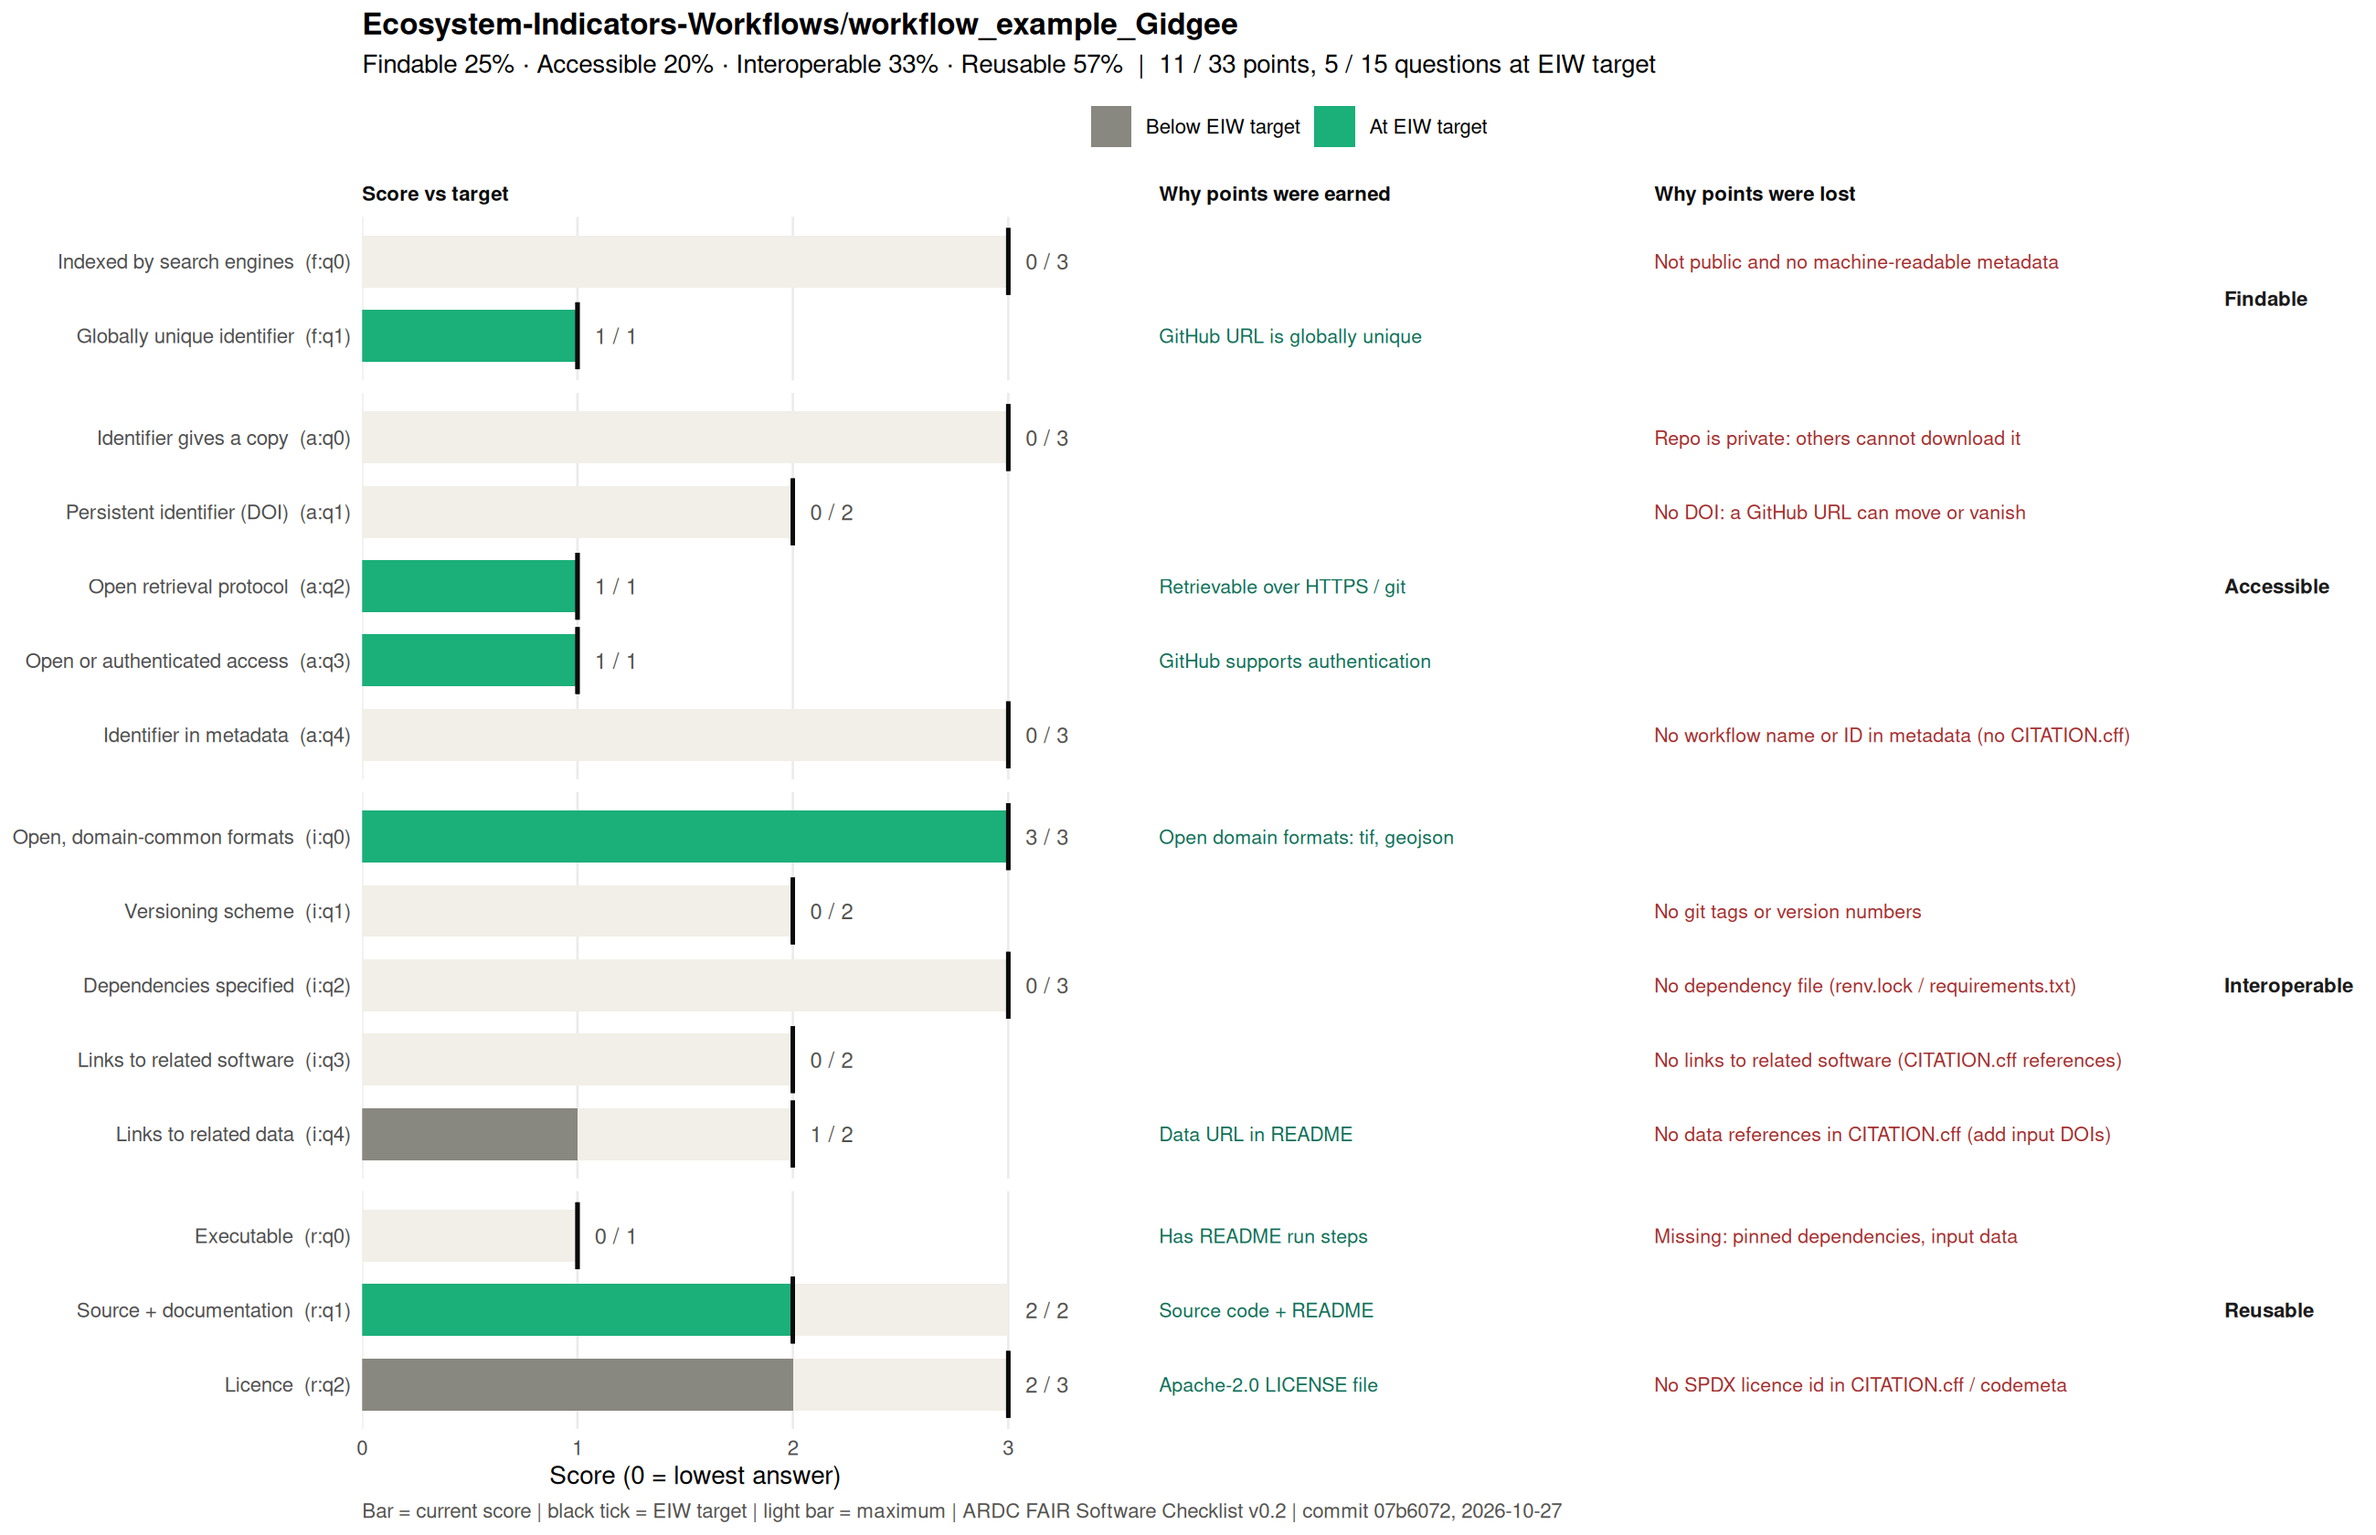
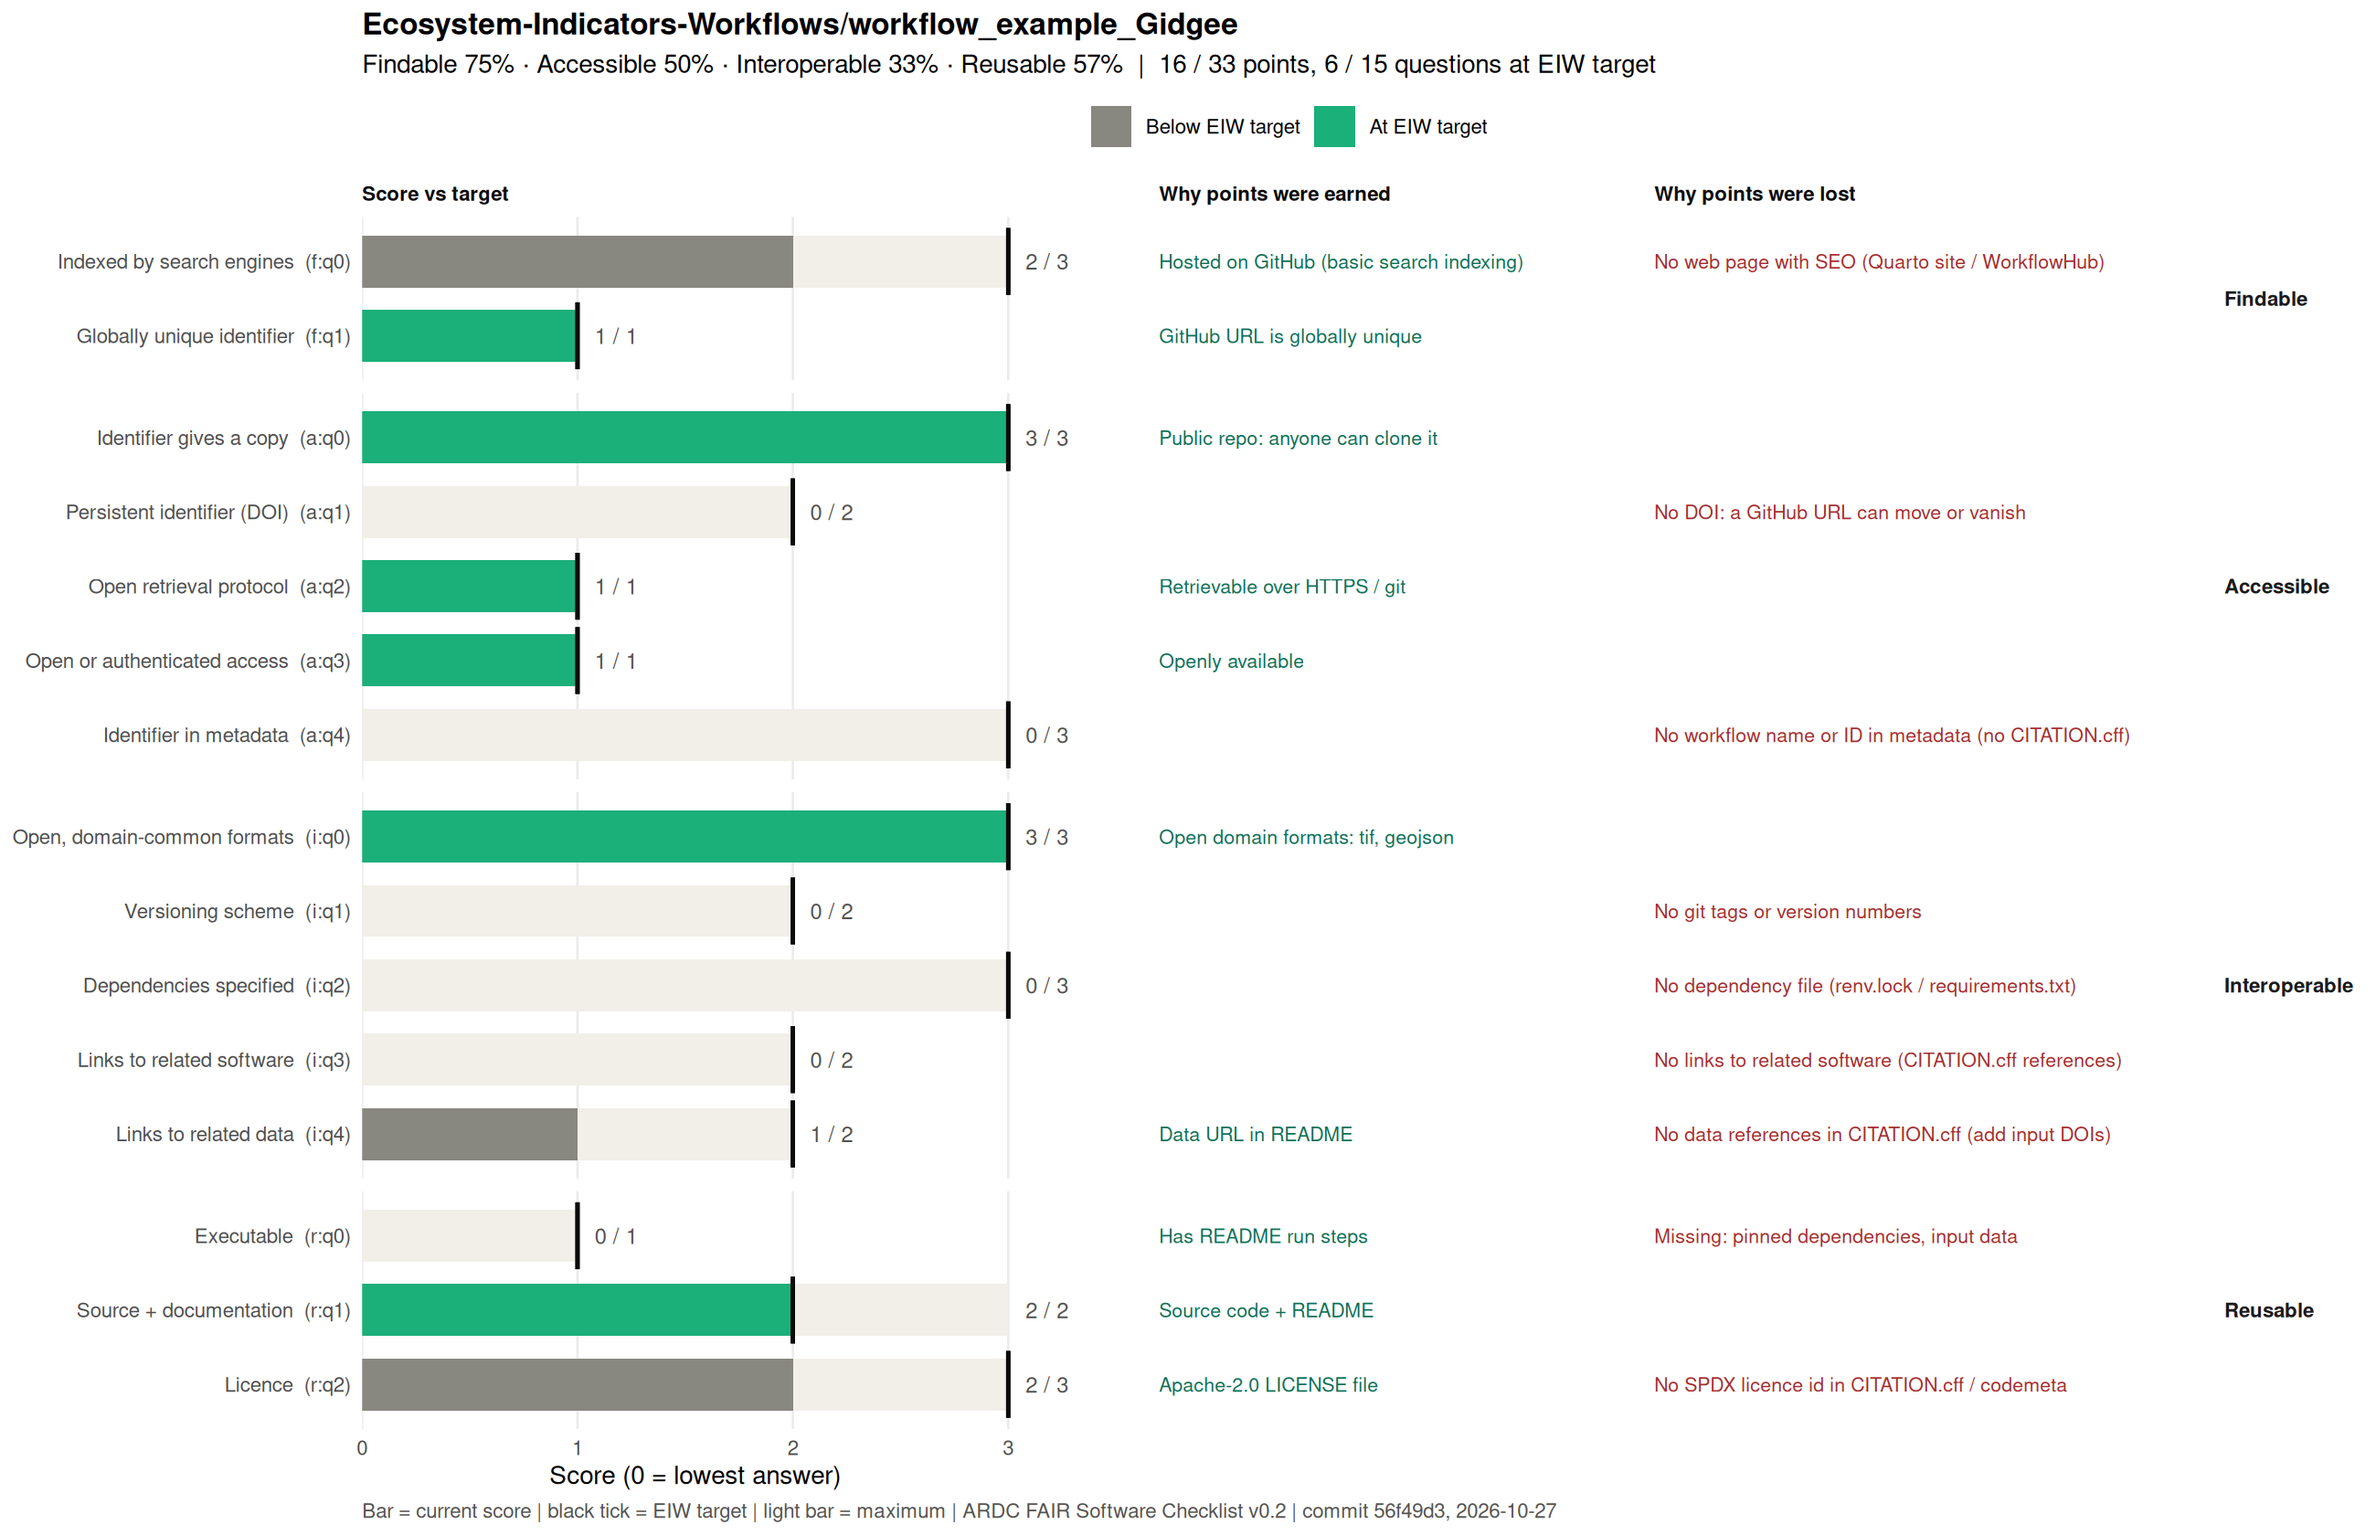
Update FAIR assessment [skip ci]

diff --git a/README.md b/README.md
@@ -44,21 +44,20 @@ Re-reunning this workflow
 <!-- FAIR:START -->
 ## FAIR assessment
 
-[![FAIR checklist badge](https://fairsoftwarechecklist.net/badge.svg)](https://fairsoftwarechecklist.net/v0.2?f=01&a=00110&i=30001&r=022) ![EIW FAIR score](https://img.shields.io/badge/EIW%20FAIR-11%2F33-orange)
+[![FAIR checklist badge](https://fairsoftwarechecklist.net/badge.svg)](https://fairsoftwarechecklist.net/v0.2?f=21&a=30110&i=30001&r=022) ![EIW FAIR score](https://img.shields.io/badge/EIW%20FAIR-16%2F33-orange)
 
-**11 / 33 points · 5 / 15 questions at EIW target** · not yet at EIW minimum
+**16 / 33 points · 6 / 15 questions at EIW target** · not yet at EIW minimum
 
 | Principle | Score | EIW target |
 |---|---|---|
-| Findable | 1 / 4 (25%) | 4 / 4 |
-| Accessible | 2 / 10 (20%) | 10 / 10 |
+| Findable | 3 / 4 (75%) | 4 / 4 |
+| Accessible | 5 / 10 (50%) | 10 / 10 |
 | Interoperable | 4 / 12 (33%) | 12 / 12 |
 | Reusable | 4 / 7 (57%) | 6 / 7 |
 
-<details><summary>Gaps to close (10)</summary>
+<details><summary>Gaps to close (9)</summary>
 
-- **f:q0 Indexed by search engines** (0 / 3): Not public and no machine-readable metadata
-- **a:q0 Identifier gives a copy** (0 / 3): Repo is private: others cannot download it
+- **f:q0 Indexed by search engines** (2 / 3): No web page with SEO (Quarto site / WorkflowHub)
 - **a:q1 Persistent identifier (DOI)** (0 / 2): No DOI: a GitHub URL can move or vanish
 - **a:q4 Identifier in metadata** (0 / 3): No workflow name or ID in metadata (no CITATION.cff)
 - **i:q1 Versioning scheme** (0 / 2): No git tags or version numbers
@@ -72,5 +71,5 @@ Re-reunning this workflow
 
 ![FAIR scores per question](fair/fair-scores.png)
 
-<sub>Updated 2026-10-27 from commit `07b6072` by `.fair/fair_check.R`. Edit `.fair/fair-checklist.yml`, not this block.</sub>
+<sub>Updated 2026-10-27 from commit `56f49d3` by `.fair/fair_check.R`. Edit `.fair/fair-checklist.yml`, not this block.</sub>
 <!-- FAIR:END -->
